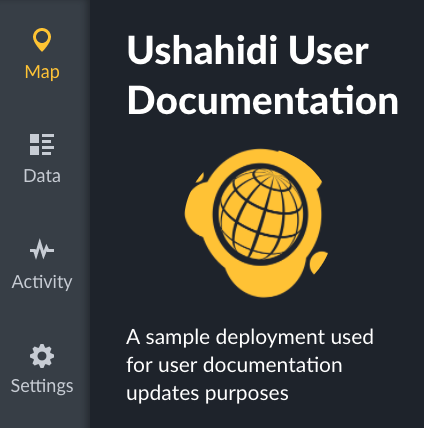
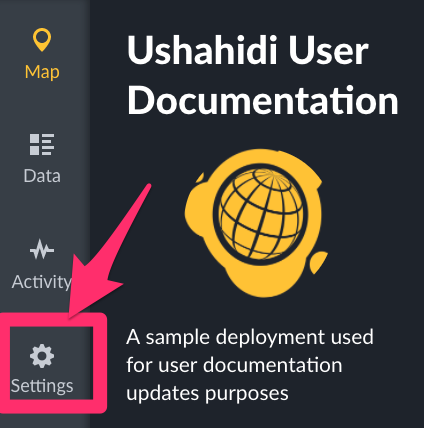
Creates assets/success_import_2.png
Auto commit by GitBook Editor

Changed region(s): [[0.0, 0.4556, 0.3373, 0.972], [0.3373, 0.4252, 0.3679, 0.4556]]

diff --git a/6_managing_data_in_your_deployment/67_importing_data.md b/6_managing_data_in_your_deployment/67_importing_data.md
@@ -8,15 +8,16 @@ The _**Data Import**_ feature allows you to import posts into the platform. It i
 
 To import a CSV File,
 
-* On the left hand menu bar, click on _**Settings**_
+* On the left hand menu bar, click on _**Settings**_![](/assets/Click_on_settings.png)
 
-* Then, click on _**Data Import**_
+* Then, click on _**Data Import**_![](/assets/Updated_Import.png)
 
-* You’ll get redirected to the import page, as shown below.
+* You’ll get redirected to the import page, as shown below.![](https://lh5.googleusercontent.com/FzHPPuIItiCVqMKc4h9JpuvPjGegUkYuIAMdM0JG_PKcHXqLqrXGM9OesdOyoV_WZ84XDjlYGRC2wkAdo15ZeTCa5wE4kZod4IT4giot3trDpkypsleeC3o8bJDxffIM0fq9VE04)
 
 * Select a survey you’d like to match the data you’re uploading to. This field is populated with a list of all existing surveys on your deployment.
 
 * Choose the CSV file you would like to upload. **Make sure that**
+
   * You are uploading a file in CSV format. Any other file formats are not accepted
   * Your CSV file size does not exceed 2MB
   * Your CSV file has Column headers\( these will be useful when mapping your CSV column to the survey fields\)
@@ -24,13 +25,13 @@ To import a CSV File,
 
 _**See below for a sample CSV file**_** **![Sample CSV File.png](../assets/sample_csv_file.png)
 
-* Click on _**Continue**_** **_and follow the instructions below_.
+* Click on _**Continue**_** **_and follow the instructions below_.![](https://lh6.googleusercontent.com/VpncbWoF-G-JEiH291YnlMyKmh104Q55u4YJdTRlYgRrTGWPaZ0E9e4KvbdRVTnTFJv5c41h63ib2FZCcJE4rzzdRyeemEVfakL2m4NqYHrrjjtbgL9BKPfdr-Zu85PR0oDV9LnY)
 
 * On successful file upload, you’ll need to assign your CSV Columns to post fields, as illustrated below.
 
-* Click on _**Finish Import.**_
+* Click on _**Finish Import.**_![](https://lh4.googleusercontent.com/HW4sy8R4ApwN40JSUrTQQOvD5OFV98Aq-roTtKVvjeKbdc_gCu-QhyAkR3kBY55ocqCZywDAX2hW7d3Fd1fyRc-leuTyj_043db5wiN_w-wqiw_IT4TkKkECTqRaEAmA8QEP1hln)
 
-* If successfully uploaded, You’ll be redirected to the _**All posts**_ page, with your newly uploaded posts added to the list of previously existing posts.
+* If successfully uploaded, You’ll receive notices as follows.![](/assets/Success_import.png)![](/assets/success_import_2.png)
 
 
 
